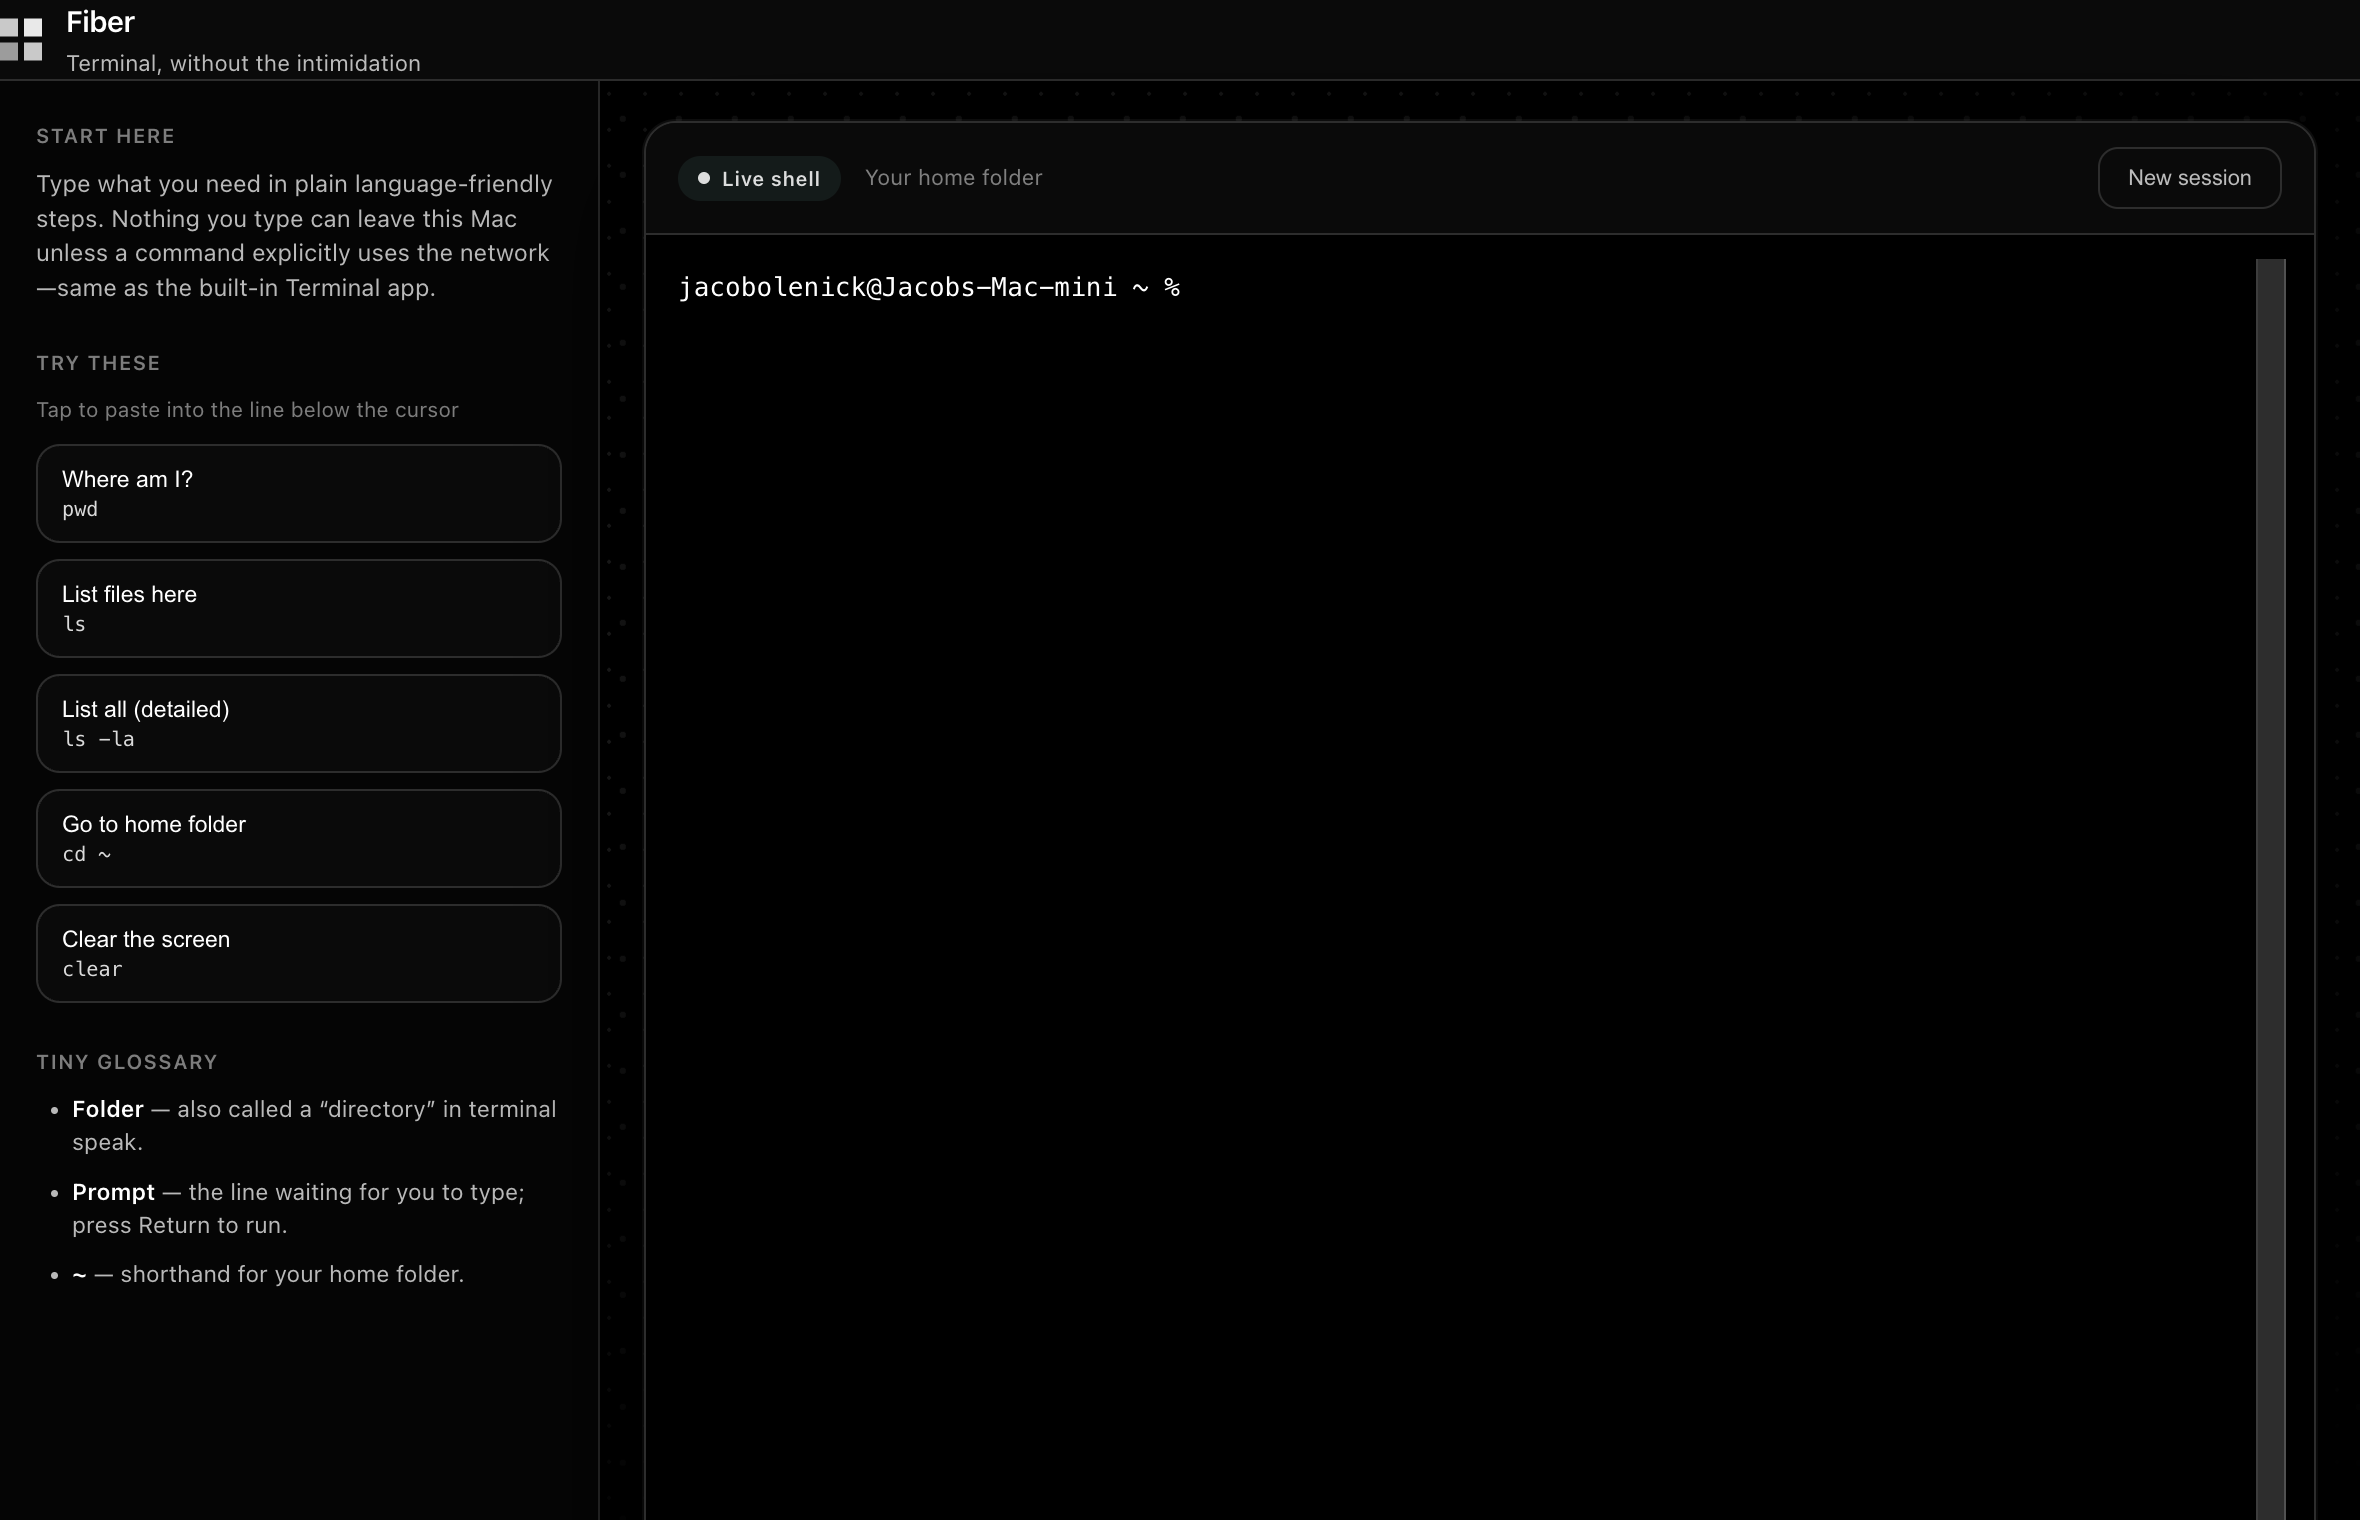
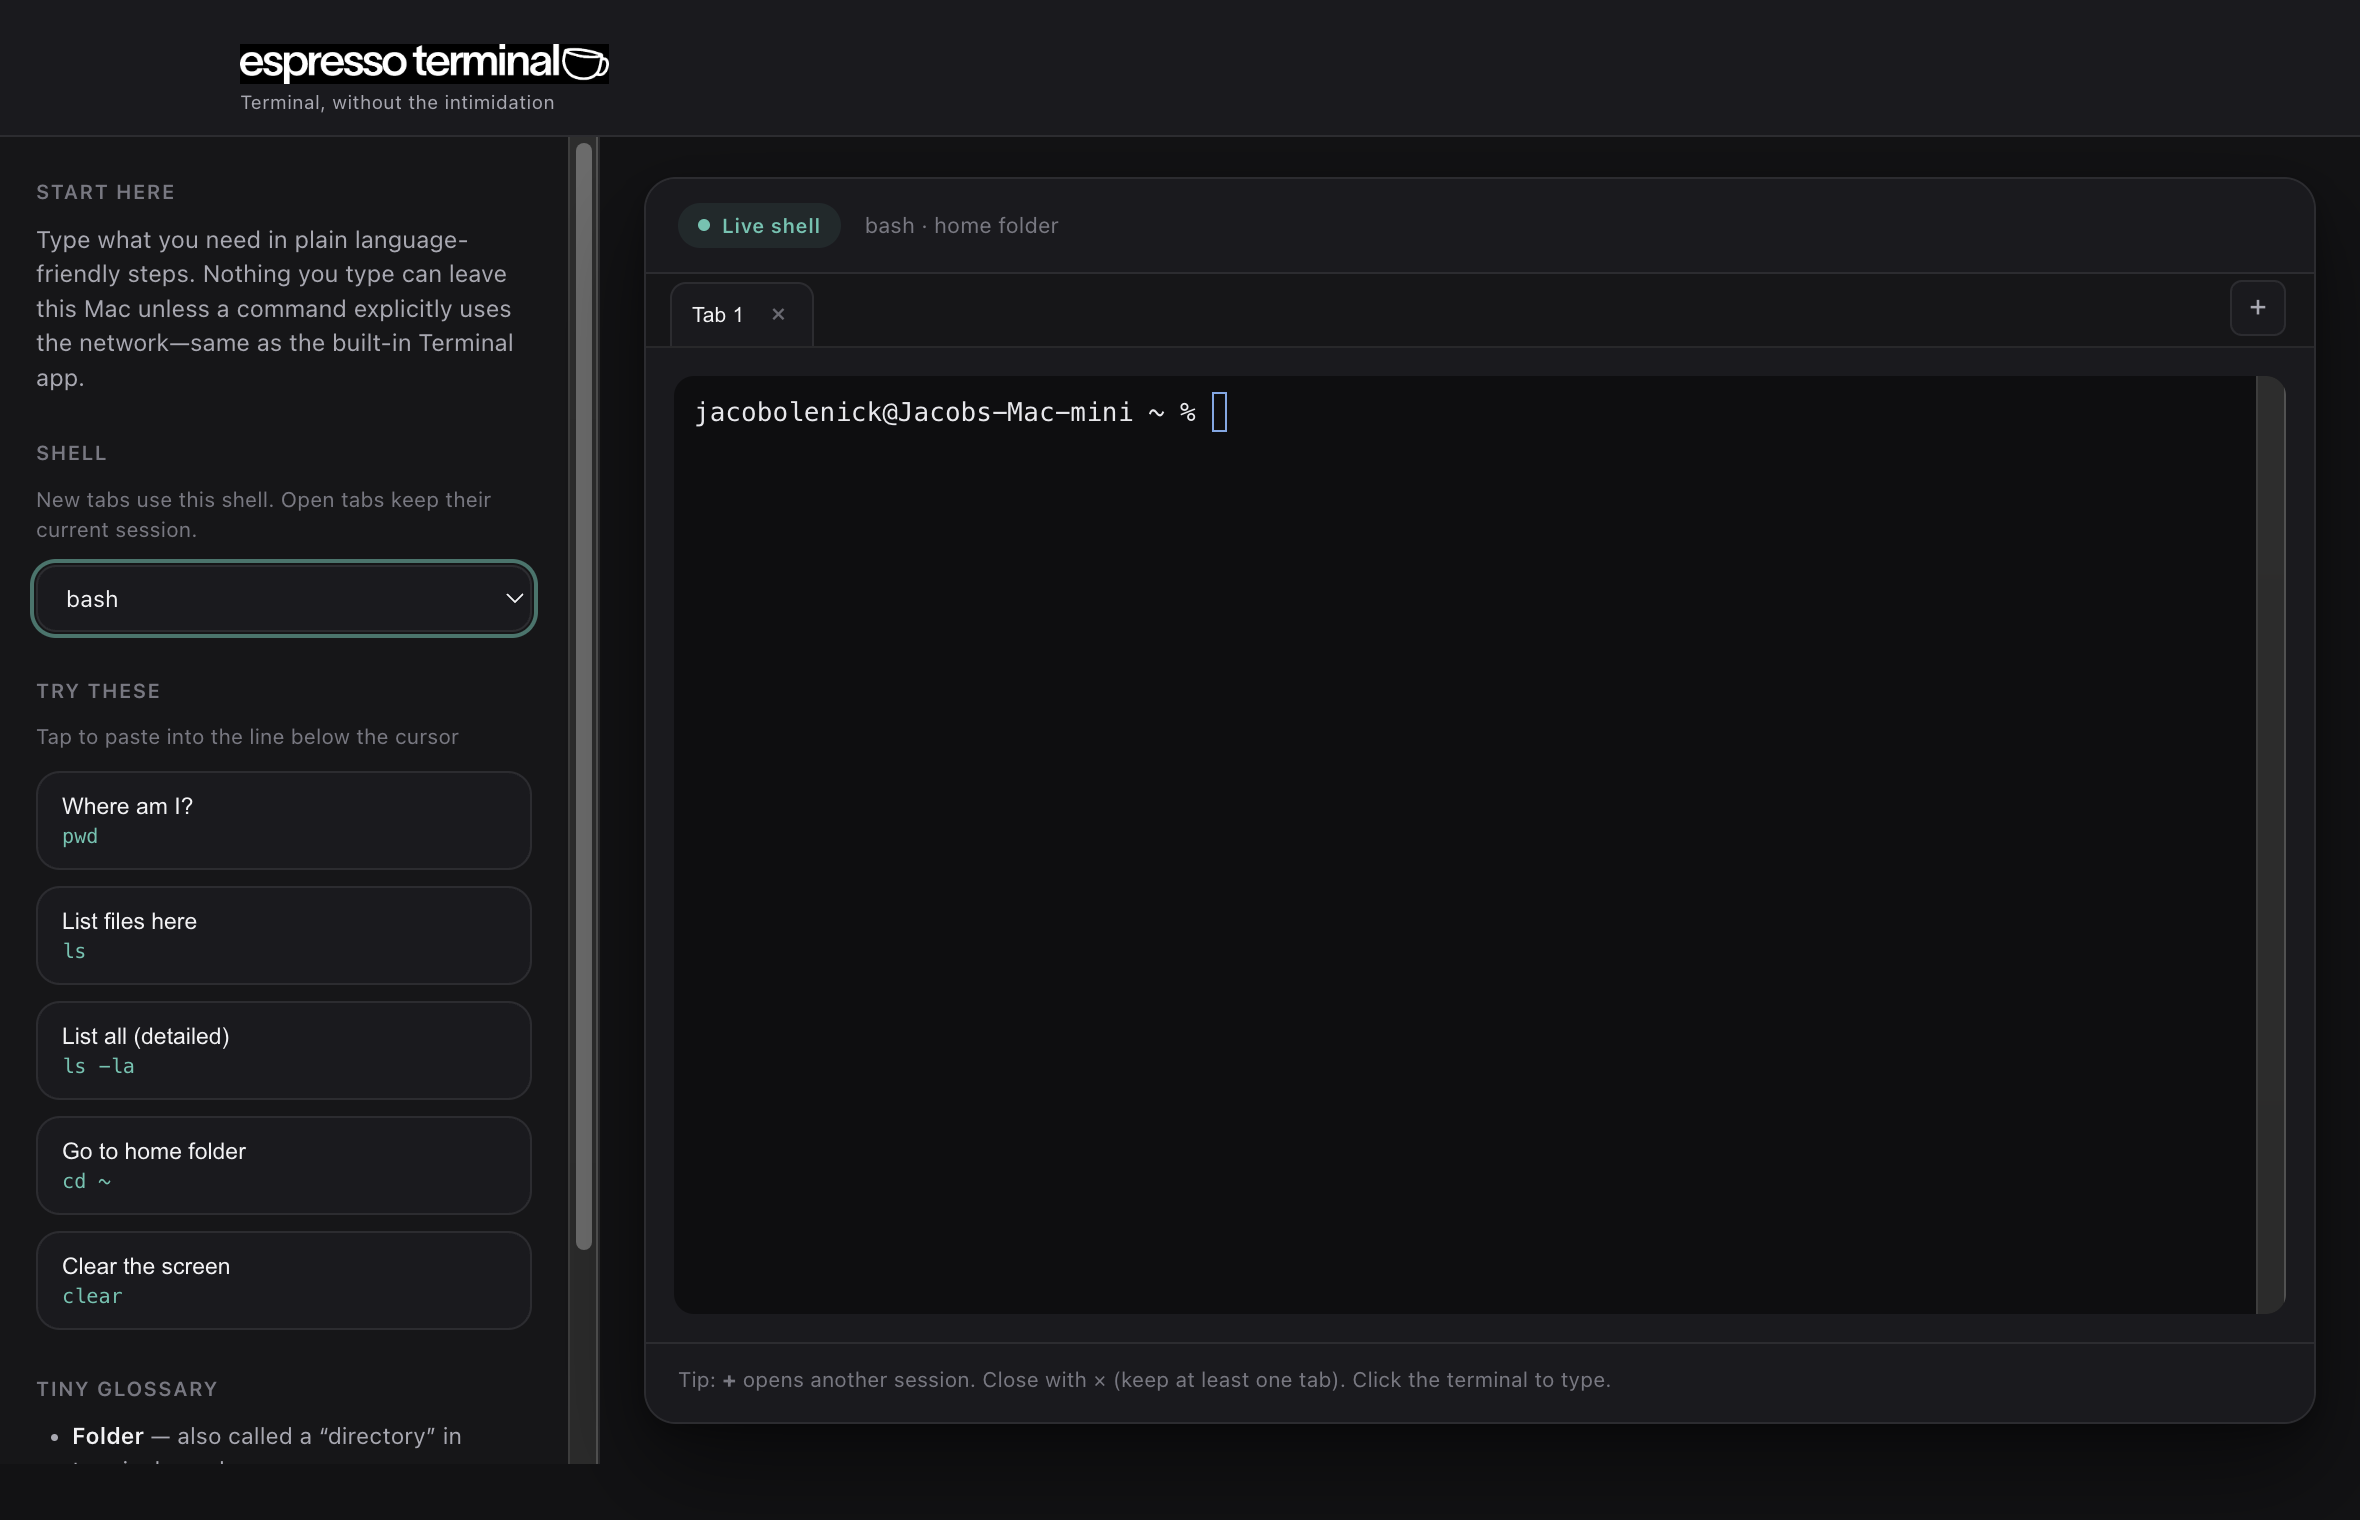
Hero: landscape background, rounded screenshot overlay; copy and screenshots
- Shell picker messaging in meta, hero, and bento
- Regenerate hero and screenshot PNGs
- Add hero-landscape-bg and hero-visual layout in CSS

Made-with: Cursor

Changed region(s): [[0.0, 0.0, 1.0, 1.0]]

diff --git a/index.html b/index.html
@@ -6,7 +6,7 @@
     <title>Espresso Terminal — Mac</title>
     <meta
       name="description"
-      content="Espresso Terminal for Mac. A real shell, tabs, and shortcuts—without the intimidation."
+      content="Espresso Terminal for Mac. Real shell (bash or zsh), tabs, and plain-language shortcuts—without the intimidation."
     />
     <link rel="preconnect" href="https://fonts.googleapis.com" />
     <link rel="preconnect" href="https://fonts.gstatic.com" crossorigin />
@@ -47,7 +47,8 @@
         <div class="hero__intro">
           <h1 class="hero__headline">Terminal, without the intimidation.</h1>
           <p class="hero__sub">
-            Native Mac app. Real shell, tabs, plain-language shortcuts.
+            Native Mac app. Choose bash or zsh (or your login shell), tabs, and
+            plain-language shortcuts.
           </p>
           <a
             class="btn btn--primary"
@@ -57,105 +58,107 @@
           >
         </div>
 
-        <div class="hero-preview" id="preview">
-          <div
-            class="hero-preview__tabs"
-            role="tablist"
-            aria-label="Interface preview"
-          >
-            <button
-              type="button"
-              class="hero-preview__tab"
-              role="tab"
-              id="tab-dark"
-              aria-selected="true"
-              aria-controls="panel-dark"
-              data-panel="dark"
-            >
-              <span class="hero-preview__tab-inner">
-                <svg
-                  class="icon icon--sm"
-                  viewBox="0 0 24 24"
-                  aria-hidden="true"
-                >
-                  <path
-                    fill="none"
-                    stroke="currentColor"
-                    stroke-width="1.5"
-                    stroke-linecap="round"
-                    stroke-linejoin="round"
-                    d="M21 12.79A9 9 0 1 1 11.21 3 7 7 0 0 0 21 12.79z"
-                  />
-                </svg>
-                Dark version
-              </span>
-            </button>
-            <button
-              type="button"
-              class="hero-preview__tab"
-              role="tab"
-              id="tab-light"
-              aria-selected="false"
-              aria-controls="panel-light"
-              data-panel="light"
-            >
-              <span class="hero-preview__tab-inner">
-                <svg
-                  class="icon icon--sm"
-                  viewBox="0 0 24 24"
-                  aria-hidden="true"
-                >
-                  <circle
-                    cx="12"
-                    cy="12"
-                    r="4"
-                    fill="none"
-                    stroke="currentColor"
-                    stroke-width="1.5"
-                  />
-                  <path
-                    fill="none"
-                    stroke="currentColor"
-                    stroke-width="1.5"
-                    stroke-linecap="round"
-                    d="M12 2v2M12 20v2M4.93 4.93l1.41 1.41M17.66 17.66l1.41 1.41M2 12h2M20 12h2M6.34 17.66l-1.41 1.41M19.07 4.93l-1.41 1.41"
-                  />
-                </svg>
-                Light version
-              </span>
-            </button>
-          </div>
-          <div class="hero-preview__frame">
+        <div class="hero-visual" id="preview">
+          <div class="hero-preview">
             <div
-              class="hero-preview__panel"
-              id="panel-dark"
-              role="tabpanel"
-              aria-labelledby="tab-dark"
-              data-panel="dark"
+              class="hero-preview__tabs"
+              role="tablist"
+              aria-label="Interface preview"
             >
-              <img
-                class="hero-preview__img"
-                src="images/hero-dark.png"
-                width="1024"
-                height="792"
-                alt="Espresso Terminal in dark mode."
-              />
+              <button
+                type="button"
+                class="hero-preview__tab"
+                role="tab"
+                id="tab-dark"
+                aria-selected="true"
+                aria-controls="panel-dark"
+                data-panel="dark"
+              >
+                <span class="hero-preview__tab-inner">
+                  <svg
+                    class="icon icon--sm"
+                    viewBox="0 0 24 24"
+                    aria-hidden="true"
+                  >
+                    <path
+                      fill="none"
+                      stroke="currentColor"
+                      stroke-width="1.5"
+                      stroke-linecap="round"
+                      stroke-linejoin="round"
+                      d="M21 12.79A9 9 0 1 1 11.21 3 7 7 0 0 0 21 12.79z"
+                    />
+                  </svg>
+                  Dark version
+                </span>
+              </button>
+              <button
+                type="button"
+                class="hero-preview__tab"
+                role="tab"
+                id="tab-light"
+                aria-selected="false"
+                aria-controls="panel-light"
+                data-panel="light"
+              >
+                <span class="hero-preview__tab-inner">
+                  <svg
+                    class="icon icon--sm"
+                    viewBox="0 0 24 24"
+                    aria-hidden="true"
+                  >
+                    <circle
+                      cx="12"
+                      cy="12"
+                      r="4"
+                      fill="none"
+                      stroke="currentColor"
+                      stroke-width="1.5"
+                    />
+                    <path
+                      fill="none"
+                      stroke="currentColor"
+                      stroke-width="1.5"
+                      stroke-linecap="round"
+                      d="M12 2v2M12 20v2M4.93 4.93l1.41 1.41M17.66 17.66l1.41 1.41M2 12h2M20 12h2M6.34 17.66l-1.41 1.41M19.07 4.93l-1.41 1.41"
+                    />
+                  </svg>
+                  Light version
+                </span>
+              </button>
             </div>
-            <div
-              class="hero-preview__panel hero-preview__panel--hidden"
-              id="panel-light"
-              role="tabpanel"
-              aria-labelledby="tab-light"
-              data-panel="light"
-              hidden
-            >
-              <img
-                class="hero-preview__img"
-                src="images/hero-light.png"
-                width="1024"
-                height="792"
-                alt="Espresso Terminal in light mode."
-              />
+            <div class="hero-preview__frame">
+              <div
+                class="hero-preview__panel"
+                id="panel-dark"
+                role="tabpanel"
+                aria-labelledby="tab-dark"
+                data-panel="dark"
+              >
+                <img
+                  class="hero-preview__img"
+                  src="images/hero-dark.png"
+                  width="2360"
+                  height="1520"
+                  alt="Espresso Terminal in dark mode, with shell picker in the sidebar."
+                />
+              </div>
+              <div
+                class="hero-preview__panel hero-preview__panel--hidden"
+                id="panel-light"
+                role="tabpanel"
+                aria-labelledby="tab-light"
+                data-panel="light"
+                hidden
+              >
+                <img
+                  class="hero-preview__img"
+                  src="images/hero-light.png"
+                  width="2360"
+                  height="1520"
+                  alt="Espresso Terminal in light mode, with shell picker in the sidebar."
+                />
+              </div>
             </div>
           </div>
         </div>
@@ -184,7 +187,8 @@
             </div>
             <h3 class="bento__card-title">Real shell</h3>
             <p class="bento__card-text">
-              zsh on your machine—local, fast, and familiar.
+              Pick bash, zsh, or your system login shell from the sidebar—local,
+              fast, and familiar.
             </p>
           </article>
           <article class="bento__card bento__card--span-4">

diff --git a/site.css b/site.css
@@ -220,19 +220,30 @@ body {
   background: color-mix(in srgb, var(--text) 4%, transparent);
 }
 
-/* Preview + tabs */
-.hero-preview {
-  border-radius: 12px;
-  border: 1px solid var(--line);
-  background: var(--surface);
+/* Hero: landscape background + rounded app screenshot overlay */
+.hero-visual {
+  border-radius: 24px;
+  padding: clamp(1.25rem, 3.5vw, 2.5rem);
+  background-color: #c8c4bc;
+  background-image: url('images/hero-landscape-bg.png');
+  background-size: cover;
+  background-position: center;
+  box-shadow: 0 28px 80px rgba(0, 0, 0, 0.14);
   overflow: hidden;
-  box-shadow: 0 24px 64px rgba(0, 0, 0, 0.06), 0 0 0 1px var(--line);
 }
 
 @media (prefers-color-scheme: dark) {
-  .hero-preview {
-    box-shadow: 0 24px 64px rgba(0, 0, 0, 0.4), 0 0 0 1px var(--line);
+  .hero-visual {
+    box-shadow: 0 28px 90px rgba(0, 0, 0, 0.45);
   }
+}
+
+.hero-preview {
+  border: none;
+  background: transparent;
+  overflow: visible;
+  box-shadow: none;
+  border-radius: 0;
 }
 
 .icon {
@@ -251,8 +262,21 @@ body {
   display: flex;
   gap: 0;
   padding: 0 0.5rem;
-  border-bottom: 1px solid var(--line);
-  background: color-mix(in srgb, var(--bg) 70%, var(--surface));
+  margin-bottom: 0.875rem;
+  border: 1px solid rgba(255, 255, 255, 0.45);
+  border-radius: 14px;
+  background: rgba(255, 255, 255, 0.78);
+  backdrop-filter: blur(14px);
+  -webkit-backdrop-filter: blur(14px);
+  box-shadow: 0 4px 24px rgba(0, 0, 0, 0.08);
+}
+
+@media (prefers-color-scheme: dark) {
+  .hero-preview__tabs {
+    border-color: rgba(255, 255, 255, 0.12);
+    background: rgba(22, 22, 24, 0.62);
+    box-shadow: 0 4px 28px rgba(0, 0, 0, 0.35);
+  }
 }
 
 .hero-preview__tab {
@@ -301,16 +325,31 @@ body {
   position: absolute;
   left: 0.75rem;
   right: 0.75rem;
-  bottom: 0;
+  bottom: 0.35rem;
   height: 2px;
   background: var(--text);
-  border-radius: 1px 1px 0 0;
+  border-radius: 1px;
 }
 
 .hero-preview__frame {
   position: relative;
   line-height: 0;
-  background: var(--surface);
+  background: #141416;
+  border-radius: 18px;
+  overflow: hidden;
+  border: 1px solid rgba(255, 255, 255, 0.4);
+  box-shadow:
+    0 20px 56px rgba(0, 0, 0, 0.35),
+    0 0 0 1px rgba(0, 0, 0, 0.06);
+}
+
+@media (prefers-color-scheme: dark) {
+  .hero-preview__frame {
+    border-color: rgba(255, 255, 255, 0.14);
+    box-shadow:
+      0 24px 64px rgba(0, 0, 0, 0.55),
+      0 0 0 1px rgba(0, 0, 0, 0.2);
+  }
 }
 
 .hero-preview__panel {
@@ -326,6 +365,7 @@ body {
   width: 100%;
   height: auto;
   vertical-align: middle;
+  border-radius: inherit;
 }
 
 /* Bento */
